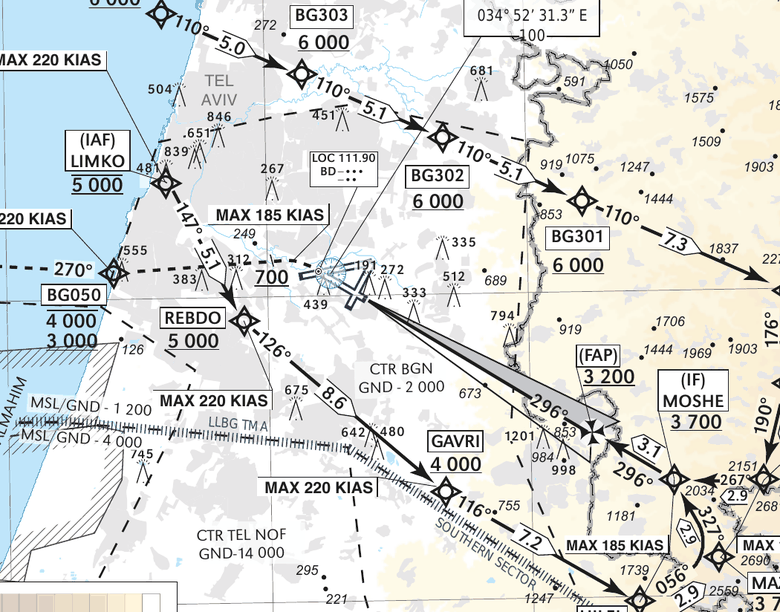
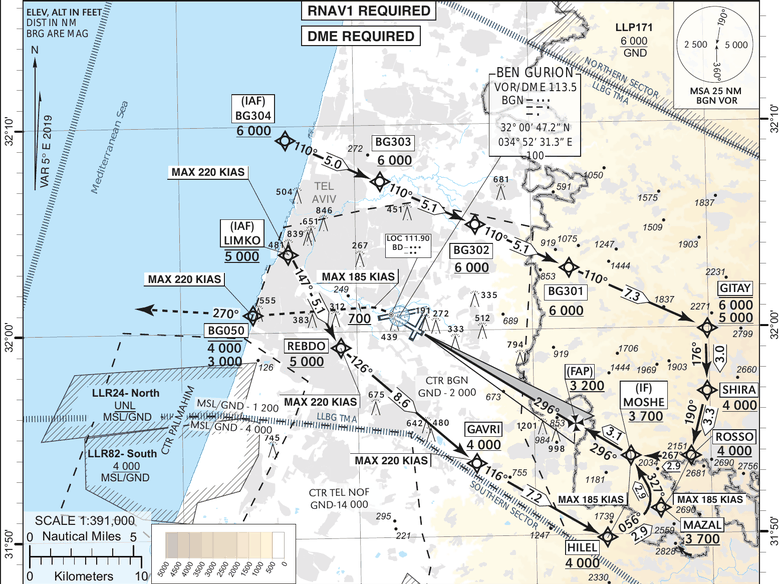
Keep the whole sheet: crop at the frame, place by the fit
Cutting at the outer gridlines placed the charts well and threw away
everything drawn outside them -- on an approach plate that is the procedure
text and half the plan view. Reported as clipping, and it was.

Measured both ways against each sheet's own drawn graticule: 19 m mean error
cut at the graticule, 29 m cut at the frame. The difference is noise beside
what either buys, so the crop goes back to the printed frame and the whole
sheet ships. Across the set the readable gridlines land 4-53 m from where
the bounds say, which is a third of a pixel of chart.

A two-point calibration on the outermost ticks was tried in between and is
worse: same datum, and a 2% stretch, because it trusts two measured
positions where the least-squares fit has eleven. That is written down in
the tool so it is not tried again.

LLBG's ILS 21 needs the tighter crop to place at all, so the picker is back
to 22 sheets from 23. A whole sheet that a pilot can read beats one more
sheet with its margins cut off.

Claude-Session: https://claude.ai/code/session_01RGtdRFvu5vUG3jdQkbaVMg

diff --git a/tests/ifr-chart-overlay.spec.js b/tests/ifr-chart-overlay.spec.js
@@ -75,8 +75,8 @@ test('the picker lists every placeable sheet and switches which one is drawn', a
   const sel = page.locator('#ifr-sheet');
   const values = await page.evaluate(() =>
     Array.from(document.getElementById('ifr-sheet').options).map(o => o.value));
-  expect(values.length).toBe(23);                // 20 at LLBG, 2 at LLIB, 1 at LLHZ
-  expect(values.filter(v => v.startsWith('LLBG|')).length).toBe(20);
+  expect(values.length).toBe(22);                // 19 at LLBG, 2 at LLIB, 1 at LLHZ
+  expect(values.filter(v => v.startsWith('LLBG|')).length).toBe(19);
 
   // Ask for a different sheet: that one is drawn and the one before it is gone. Reported as
   // "selecting different ifr chart doesn't remove selected" -- the picker names one chart,

diff --git a/scripts/georef-plate.py b/scripts/georef-plate.py
@@ -246,31 +246,17 @@ def georef(pdf, png, arp):
     # (see plane()). Adopted only when it beats the single-axis fit on the labels it was
     # given: on a plate that IS square the second coefficient is noise, and the residual says
     # so. The corners then come from the plane, evaluated at the frame.
-    # Crop to the GRATICULE, not to the neat line. The frame is found by looking for the
-    # printed border, and a few pixels of error there move the whole sheet on the map while
-    # leaving every residual small -- which is how LLIB's approach charts came to sit half a
-    # mile east with a fit that read as healthy. Cutting at the outermost labelled gridlines
-    # instead makes the placement independent of that: the same fit decides both where the
-    # cut is and what coordinate it carries, so an error in the fit moves neither.
-    PXLAT = lambda deg: (deg - blat) / mlat * scale          # inverse of LAT()
-    PXLON = lambda deg: (deg - blon) / mlon * scale
-    lat_lo, lat_hi = min(l['deg'] for l in lat), max(l['deg'] for l in lat)
-    lon_lo, lon_hi = min(l['deg'] for l in lon), max(l['deg'] for l in lon)
-    if north_up_guess := (lat_key == 'cy'):
-        gtop, gbottom = PXLAT(lat_hi), PXLAT(lat_lo)
-        gleft, gright = PXLON(lon_lo), PXLON(lon_hi)
-    else:
-        gleft, gright = PXLAT(lat_lo), PXLAT(lat_hi)
-        gtop, gbottom = PXLON(lon_hi), PXLON(lon_lo)
-    if gleft > gright: gleft, gright = gright, gleft
-    if gtop > gbottom: gtop, gbottom = gbottom, gtop
-    # Only when it lands inside the page and covers most of the frame the border search
-    # found: a graticule box wildly different from it means one of the two is wrong, and the
-    # printed border is the one that was measured rather than inferred.
-    W_px, H_px = im.size
-    if (0 <= gleft < gright <= W_px and 0 <= gtop < gbottom <= H_px and
-            (gright-gleft) > 0.4*(right-left) and (gbottom-gtop) > 0.4*(bottom-top)):
-        left, right, top, bottom = gleft, gright, gtop, gbottom
+    # The whole sheet is kept: the crop is the printed frame, not the graticule box. Cutting
+    # at the outer gridlines placed the picture just as well -- both land within about 20 m
+    # of their own drawn graticule, measured -- and threw away everything the chart draws
+    # outside them, which on an approach plate is the procedure text and half the plan view.
+    #
+    # Placement rides on the least-squares fit over the labels, which is unbiased at their
+    # centroid and keeps the two axes in scale with each other (conformality ~1.00). A
+    # two-point calibration on the outermost ticks was tried and is worse: it lands the datum
+    # no better and stretches the sheet by 2%, because the ticks it trusts are two measured
+    # positions rather than eleven.
+    north_up_guess = (lat_key == 'cy')
     LATxy = lambda px, py: LAT(py if lat_key == 'cy' else px)
     LONxy = lambda px, py: LON(px if lat_key == 'cy' else py)
     north_up = (lat_key == 'cy')
